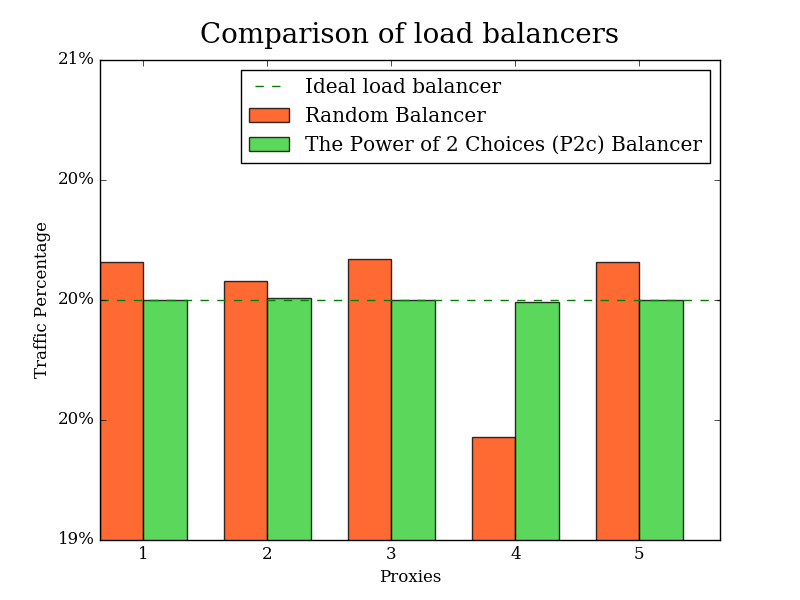
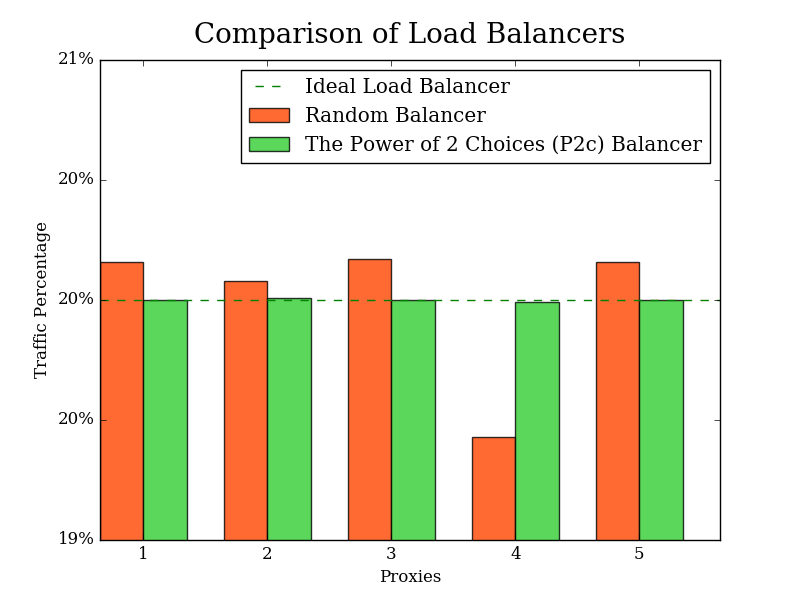
capitalize everything

Changed region(s): [[0.25, 0.03, 0.7812, 0.09], [0.4375, 0.12, 0.625, 0.18]]

diff --git a/docs/plot_errors.py b/docs/plot_errors.py
@@ -29,9 +29,9 @@ plt.bar(bins + bar_width, p2c_balancer, bar_width, alpha=0.8,
     color='limegreen', label='The Power of 2 Choices (P2c) Balancer')
 
 plt.axhline(y=0.2, linestyle='dashed',
-    color='green', label=r'Ideal load balancer')
+    color='green', label=r'Ideal Load Balancer')
 
-plt.title('Comparison of load balancers', fontsize=20, y=1.02)
+plt.title('Comparison of Load Balancers', fontsize=20, y=1.02)
 
 plt.ylim([0.19, 0.21])
 plt.ylabel('Traffic Percentage')
